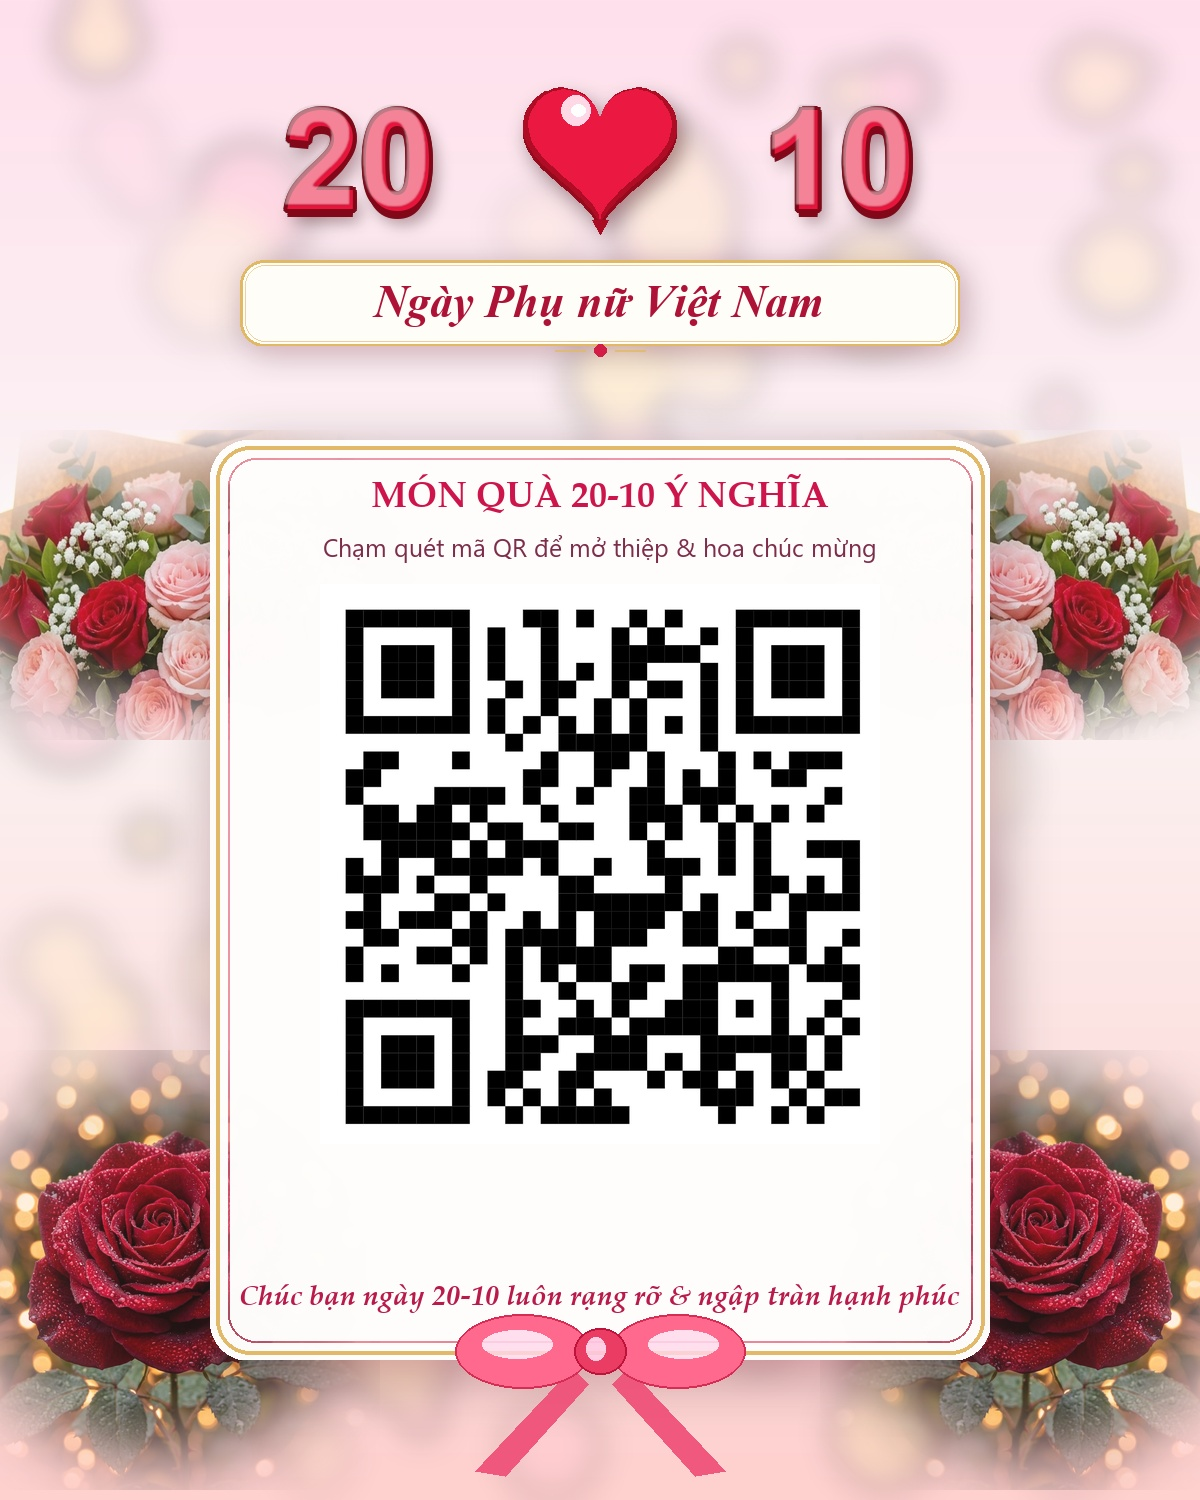
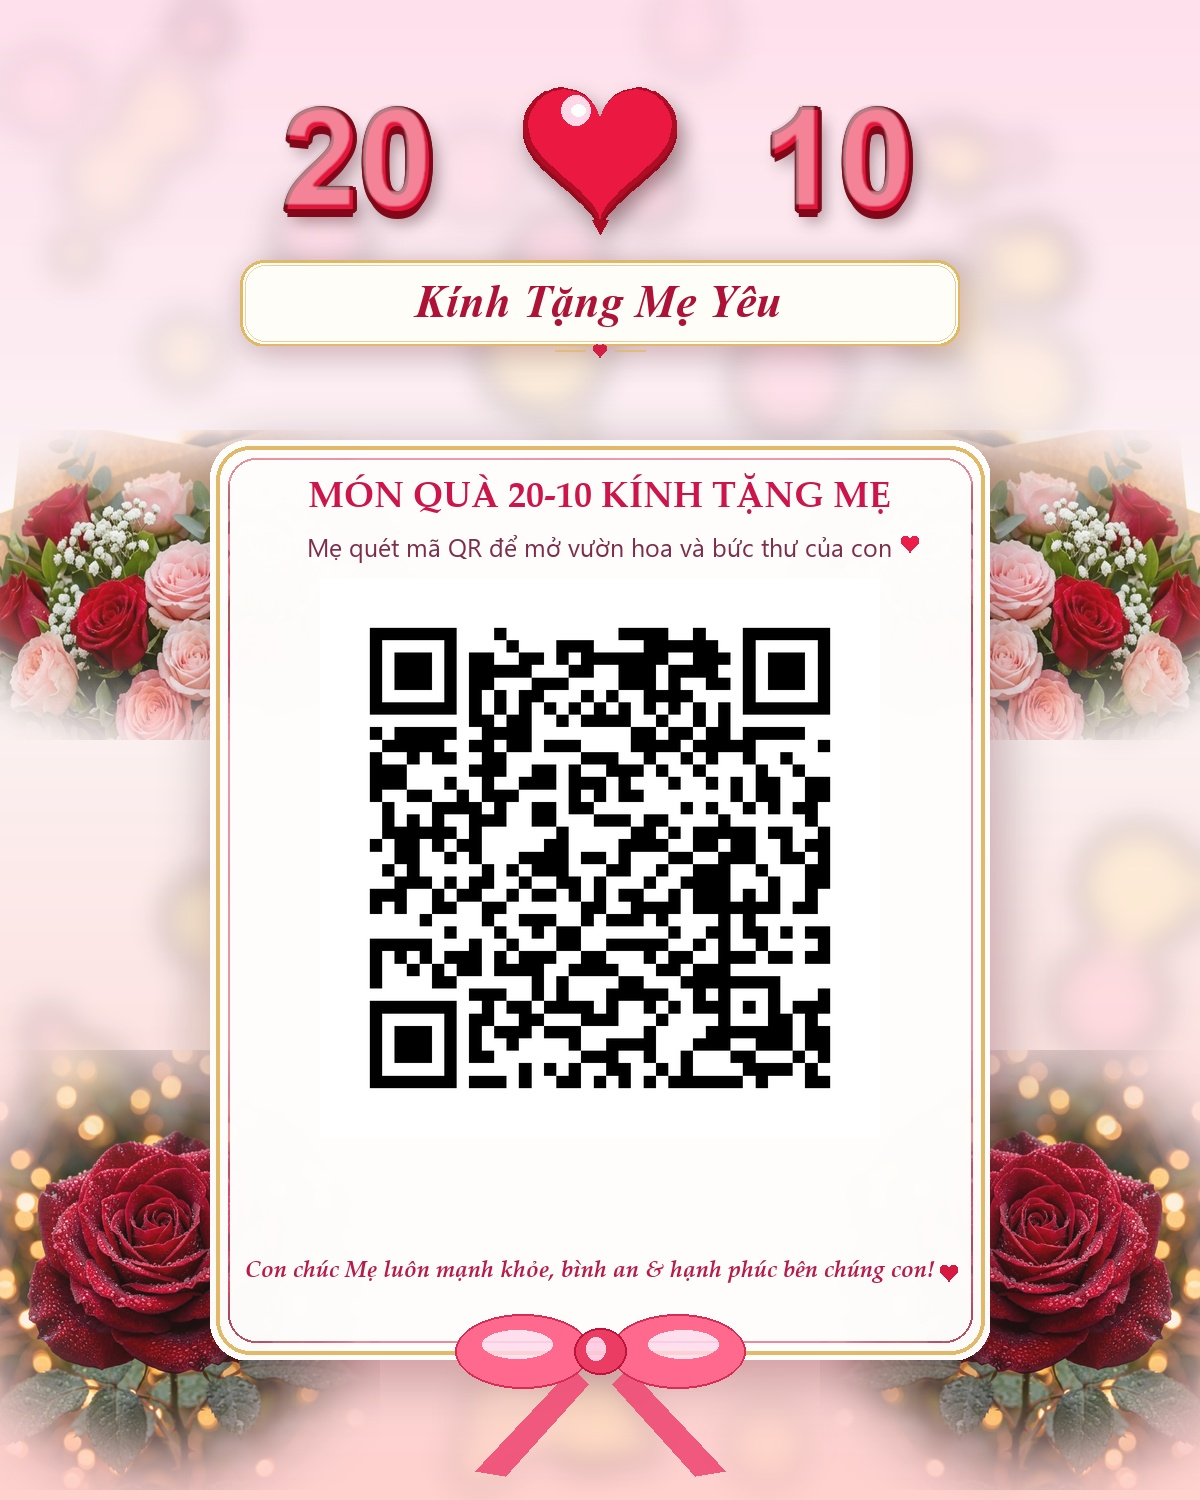
feat: tao khung ma QR 20-10 kinh tang Me tuyet dep va cap nhat qr.html

diff --git a/qr.html b/qr.html
@@ -177,31 +177,31 @@
   <div class="sparkle-bg"></div>
 
   <main class="container">
-    <h1 class="page-title">🌸 Món Quà 20-10 Ý Nghĩa 💖</h1>
-    <p class="page-sub">Khung ảnh thiệp mã QR được thiết kế riêng với chùm bóng 3D và hoa hồng rực rỡ</p>
+    <h1 class="page-title">🌸 Món Quà 20-10 Kính Tặng Mẹ Yêu 💖</h1>
+    <p class="page-sub">Khung ảnh thiệp mã QR bóng bay 3D & hoa hồng rực rỡ thiết kế riêng cho Mẹ</p>
 
-    <!-- Khung mã QR chất lượng cao -->
+    <!-- Khung mã QR chất lượng cao dành tặng Mẹ -->
     <div class="qr-frame-wrapper">
-      <img class="qr-img" src="assets/khung_qr_20_10.png" alt="Khung mã QR 20-10 Ý Nghĩa">
+      <img class="qr-img" src="assets/khung_qr_tang_me.png" alt="Khung mã QR 20-10 Kính Tặng Mẹ">
     </div>
 
     <!-- Nhóm nút tải và xem -->
     <div class="action-group">
-      <a class="btn btn-download" href="assets/khung_qr_20_10.png" download="Khung_QR_20_10.png">
-        <span>📥 Tải Ảnh Khung QR Về Điện Thoại (HD)</span>
+      <a class="btn btn-download" href="assets/khung_qr_tang_me.png" download="Khung_QR_20_10_Tang_Me.png">
+        <span>📥 Tải Ảnh Khung QR Tặng Mẹ (Bản Gốc HD)</span>
       </a>
 
-      <a class="btn btn-open" href="index.html">
-        <span>🎁 Trải Nghiệm Món Quà Trực Tiếp</span>
+      <a class="btn btn-open" href="index.html?to=Mẹ_Yêu&from=Con&theme=mom">
+        <span>🎁 Trải Nghiệm Món Quà Của Mẹ Trực Tiếp</span>
       </a>
     </div>
 
     <!-- Hướng dẫn sử dụng -->
     <div class="hint-box">
-      <strong>💡 Cách tặng quà bằng mã QR:</strong><br>
-      • Bạn hãy <strong>Tải ảnh về máy</strong> rồi gửi trực tiếp qua Zalo / Messenger.<br>
-      • Hoặc in bức ảnh này ra thiệp đặt cạnh bó hoa / món quà 20-10.<br>
-      • Người nhận chỉ cần <strong>bật Camera điện thoại hoặc Zalo</strong> quét mã là món quà bừng nở kỳ diệu! ✨
+      <strong>💡 Cách gửi tặng Mẹ thật ý nghĩa:</strong><br>
+      • Bạn hãy bấm <strong>Tải ảnh về máy</strong> rồi gửi bức ảnh thiệp này qua Zalo cho Mẹ.<br>
+      • Hoặc in bức ảnh này ra thiệp đặt cạnh bó hoa / hộp quà gửi tặng Mẹ.<br>
+      • Mẹ chỉ cần <strong>mở Zalo hoặc Camera điện thoại quét mã QR</strong> là vườn hoa hồng và bức thư yêu thương của con sẽ bừng nở! ✨
     </div>
   </main>
 

diff --git a/js/app.js b/js/app.js
@@ -39,8 +39,8 @@ const PHOTO_LIST = [
 // Trích xuất tham số URL
 function getQueryParams() {
   const params = new URLSearchParams(window.location.search);
-  const to = params.get('to') || 'Người Phụ Nữ Tuyệt Vời';
-  const from = params.get('from') || 'Friend';
+  const to = (params.get('to') || 'Người Phụ Nữ Tuyệt Vời').replace(/_/g, ' ');
+  const from = (params.get('from') || 'Con').replace(/_/g, ' ');
   let msg = params.get('msg');
   const theme = params.get('theme') || 'lover';
 

diff --git a/generate_mom_frame.py b/generate_mom_frame.py
@@ -1,0 +1,312 @@
+import os
+import math
+import cv2
+import numpy as np
+from PIL import Image, ImageDraw, ImageFont, ImageFilter, ImageOps
+
+def draw_small_heart(draw, cx, cy, size=10, fill=(215, 25, 65)):
+    pts = []
+    scale = size / 16.0
+    for t in np.linspace(0, 2 * math.pi, 60):
+        hx = 16 * (math.sin(t) ** 3)
+        hy = -(13 * math.cos(t) - 5 * math.cos(2*t) - 2 * math.cos(3*t) - math.cos(4*t))
+        pts.append((cx + hx * scale, cy + hy * scale))
+    draw.polygon(pts, fill=fill)
+
+def draw_3d_balloon_text(canvas, text, cx, cy, font, size=135):
+    temp = Image.new('RGBA', (canvas.width, canvas.height), (0, 0, 0, 0))
+    td = ImageDraw.Draw(temp)
+    
+    tb = td.textbbox((0, 0), text, font=font)
+    tw = tb[2] - tb[0]
+    th = tb[3] - tb[1]
+    tx = cx - tw // 2
+    ty = cy - th // 2
+    
+    # 1. Đổ bóng mềm
+    td.text((tx + 6, ty + 12), text, font=font, fill=(90, 8, 22, 110))
+    temp = temp.filter(ImageFilter.GaussianBlur(8))
+    td = ImageDraw.Draw(temp)
+    
+    # 2. Lớp viền 3D dày
+    offsets = [
+        (-4, 0), (4, 0), (0, -4), (0, 4),
+        (-3, -3), (3, 3), (-3, 3), (3, -3),
+        (-2, 4), (2, 4), (-4, 2), (4, 2),
+        (0, 6), (0, 8)
+    ]
+    for dx, dy in offsets:
+        td.text((tx + dx, ty + dy), text, font=font, fill=(130, 8, 25, 255))
+        
+    # 3. Thân bóng đỏ tươi rực rỡ
+    td.text((tx, ty), text, font=font, fill=(235, 20, 60, 255))
+    
+    # 4. Vệt sáng phản quang trên mép chữ
+    hi_layer = Image.new('RGBA', (canvas.width, canvas.height), (0, 0, 0, 0))
+    hid = ImageDraw.Draw(hi_layer)
+    hid.text((tx - 3, ty - 4), text, font=font, fill=(255, 255, 255, 120))
+    hi_layer = hi_layer.filter(ImageFilter.GaussianBlur(1))
+    temp = Image.alpha_composite(temp, hi_layer)
+    
+    return Image.alpha_composite(canvas, temp)
+
+def draw_3d_heart_balloon(canvas, cx, cy, scale=4.6):
+    heart_layer = Image.new('RGBA', (canvas.width, canvas.height), (0, 0, 0, 0))
+    hd = ImageDraw.Draw(heart_layer)
+    
+    pts = []
+    for t in np.linspace(0, 2 * math.pi, 120):
+        hx = 16 * (math.sin(t) ** 3)
+        hy = -(13 * math.cos(t) - 5 * math.cos(2*t) - 2 * math.cos(3*t) - math.cos(4*t))
+        pts.append((cx + hx * scale, cy + hy * scale))
+        
+    # Bóng đổ mềm
+    shadow_pts = [(x + 6, y + 12) for (x, y) in pts]
+    hd.polygon(shadow_pts, fill=(90, 8, 22, 120))
+    heart_layer = heart_layer.filter(ImageFilter.GaussianBlur(10))
+    hd = ImageDraw.Draw(heart_layer)
+    
+    # Lớp viền tối tạo độ dày 3D
+    thick_pts = [(x, y + 5) for (x, y) in pts]
+    hd.polygon(thick_pts, fill=(150, 10, 30, 255))
+    hd.polygon(pts, fill=(175, 12, 38, 255))
+    
+    # Thân trái tim đỏ căng tròn
+    inner_pts = []
+    scale_in = scale * 0.93
+    for t in np.linspace(0, 2 * math.pi, 120):
+        hx = 16 * (math.sin(t) ** 3)
+        hy = -(13 * math.cos(t) - 5 * math.cos(2*t) - 2 * math.cos(3*t) - math.cos(4*t))
+        inner_pts.append((cx + hx * scale_in, cy + hy * scale_in - 2))
+    hd.polygon(inner_pts, fill=(235, 25, 65, 255))
+    
+    # Vệt phản quang lấp lánh
+    hd.ellipse((cx - int(38 * (scale/4.6)), cy - int(48 * (scale/4.6)), cx - int(10 * (scale/4.6)), cy - int(20 * (scale/4.6))), fill=(255, 215, 230, 230))
+    hd.ellipse((cx - int(28 * (scale/4.6)), cy - int(40 * (scale/4.6)), cx - int(15 * (scale/4.6)), cy - int(28 * (scale/4.6))), fill=(255, 255, 255, 250))
+    
+    # Nút thắt bóng bay
+    knot_y = cy + int(72 * (scale/4.6))
+    hd.polygon([(cx - 8, knot_y), (cx + 8, knot_y), (cx, knot_y + 14)], fill=(170, 12, 35, 255))
+    
+    return Image.alpha_composite(canvas, heart_layer)
+
+def create_mom_masterpiece():
+    W, H = 1200, 1500
+    canvas = Image.new('RGBA', (W, H), (255, 255, 255, 255))
+    
+    # 1. NỀN PASTEL THƠ MỘNG
+    sky = Image.new('RGBA', (W, H))
+    for y in range(H):
+        ratio = y / H
+        if ratio < 0.4:
+            sub = ratio / 0.4
+            r = int(255 - sub * 4)
+            g = int(224 + sub * 22)
+            b = int(236 + sub * 10)
+        else:
+            sub = (ratio - 0.4) / 0.6
+            r = int(251 + sub * 4)
+            g = int(246 - sub * 38)
+            b = int(246 - sub * 40)
+        for x in range(W):
+            sky.putpixel((x, y), (r, g, b, 255))
+    canvas.paste(sky, (0, 0))
+
+    # 2. HẠT BOKEH VÀ ĐOM ĐÓM VÀNG GOLD
+    bokeh = Image.new('RGBA', (W, H), (0, 0, 0, 0))
+    bd = ImageDraw.Draw(bokeh)
+    np.random.seed(2010)
+    for _ in range(70):
+        bx = np.random.randint(30, W - 30)
+        by = np.random.randint(30, H - 30)
+        br = np.random.randint(15, 65)
+        alpha = np.random.randint(25, 85)
+        color = (255, 235, 160, alpha) if np.random.rand() > 0.4 else (255, 185, 205, alpha)
+        bd.ellipse((bx - br, by - br, bx + br, by + br), fill=color)
+    bokeh = bokeh.filter(ImageFilter.GaussianBlur(15))
+    canvas = Image.alpha_composite(canvas, bokeh)
+
+    # 3. HOA HỒNG TỰ NHIÊN XUNG QUANH
+    if os.path.exists('assets/bouquet.jpg'):
+        bq_full = Image.open('assets/bouquet.jpg')
+        flowers_top = bq_full.crop((140, 160, 860, 510)).convert('RGBA')
+        
+        fl_left = flowers_top.resize((520, 310), Image.Resampling.LANCZOS)
+        mask_fl_l = Image.new('L', (520, 310), 0)
+        mld = ImageDraw.Draw(mask_fl_l)
+        mld.ellipse((30, 30, 490, 280), fill=235)
+        mask_fl_l = mask_fl_l.filter(ImageFilter.GaussianBlur(28))
+        canvas.paste(fl_left, (-70, 430), mask_fl_l)
+        
+        fl_right = ImageOps.mirror(fl_left)
+        canvas.paste(fl_right, (W - 450, 430), mask_fl_l)
+
+    if os.path.exists('assets/rose_close.jpg'):
+        rc = Image.open('assets/rose_close.jpg').convert('RGBA')
+        rc_bl = rc.resize((440, 440), Image.Resampling.LANCZOS)
+        mask_bl = Image.new('L', (440, 440), 0)
+        bld = ImageDraw.Draw(mask_bl)
+        bld.ellipse((40, 40, 400, 400), fill=235)
+        mask_bl = mask_bl.filter(ImageFilter.GaussianBlur(36))
+        canvas.paste(rc_bl, (-60, H - 450), mask_bl)
+        
+        rc_br = ImageOps.mirror(rc_bl)
+        canvas.paste(rc_br, (W - 380, H - 450), mask_bl)
+
+    # 4. TẤM THIỆP GREETING CARD TRUNG TÂM
+    card_w = 780
+    card_h = 920
+    card_x = (W - card_w) // 2
+    card_y = 440
+
+    # Bóng đổ mềm mại dưới thiệp
+    shadow = Image.new('RGBA', (W, H), (0, 0, 0, 0))
+    sdraw = ImageDraw.Draw(shadow)
+    sdraw.rounded_rectangle((card_x + 8, card_y + 14, card_x + card_w + 8, card_y + card_h + 14), radius=38, fill=(150, 40, 70, 90))
+    shadow = shadow.filter(ImageFilter.GaussianBlur(26))
+    canvas = Image.alpha_composite(canvas, shadow)
+
+    # Thân thiệp màu trắng ngọc trai viền vàng kim loại
+    card = Image.new('RGBA', (card_w, card_h), (0, 0, 0, 0))
+    cd = ImageDraw.Draw(card)
+    cd.rounded_rectangle((0, 0, card_w, card_h), radius=38, fill=(255, 254, 252, 252))
+    cd.rounded_rectangle((6, 6, card_w - 6, card_h - 6), radius=34, outline=(225, 185, 105, 255), width=4)
+    cd.rounded_rectangle((18, 18, card_w - 18, card_h - 18), radius=28, outline=(255, 120, 150, 140), width=2)
+    canvas.paste(card, (card_x, card_y), card)
+
+    # 5. FONT CHỮ CHUẨN TIẾNG VIỆT
+    font_balloon = ImageFont.truetype("C:/Windows/Fonts/arialbd.ttf", 136)
+    font_banner = ImageFont.truetype("C:/Windows/Fonts/timesbi.ttf", 46)
+    font_card_title = ImageFont.truetype("C:/Windows/Fonts/palab.ttf", 36)
+    font_card_sub = ImageFont.truetype("C:/Windows/Fonts/segoeui.ttf", 25)
+    font_card_foot = ImageFont.truetype("C:/Windows/Fonts/palabi.ttf", 23)
+
+    draw = ImageDraw.Draw(canvas)
+
+    # Tiêu đề trên thiệp
+    card_title = "MÓN QUÀ 20-10 KÍNH TẶNG MẸ"
+    tb = draw.textbbox((0, 0), card_title, font=font_card_title)
+    draw.text((card_x + (card_w - (tb[2] - tb[0])) // 2, card_y + 40), card_title, fill=(205, 20, 75), font=font_card_title)
+
+    card_sub = "Mẹ quét mã QR để mở vườn hoa và bức thư của con"
+    sb = draw.textbbox((0, 0), card_sub, font=font_card_sub)
+    sub_x = card_x + (card_w - (sb[2] - sb[0])) // 2
+    sub_y = card_y + 90
+    draw.text((sub_x, sub_y), card_sub, fill=(125, 45, 75), font=font_card_sub)
+    draw_small_heart(draw, sub_x + (sb[2] - sb[0]) + 18, sub_y + 13, size=9, fill=(235, 30, 75))
+
+    # 6. MÃ QR GỐC TẶNG MẸ (GIỮ NGUYÊN 100% ĐEN TRẮNG NGUYÊN BẢN CỦA BẠN)
+    qr_path = r'C:\Users\duong\.gemini\antigravity-ide\brain\c8cce4da-7923-429c-976e-d281e068922e\.user_uploaded\media_1792436287872.png'
+    if os.path.exists(qr_path):
+        qr_raw = Image.open(qr_path).convert('RGB')
+        
+        qr_size = 560
+        qr_resized = qr_raw.resize((qr_size, qr_size), Image.Resampling.LANCZOS)
+        
+        qr_pos_x = card_x + (card_w - qr_size) // 2
+        qr_pos_y = card_y + 138
+        canvas.paste(qr_resized, (qr_pos_x, qr_pos_y))
+
+    # Dòng chữ chân thiệp chúc Mẹ
+    foot_text = "Con chúc Mẹ luôn mạnh khỏe, bình an & hạnh phúc bên chúng con!"
+    fb = draw.textbbox((0, 0), foot_text, font=font_card_foot)
+    foot_w = fb[2] - fb[0]
+    foot_x = card_x + (card_w - foot_w) // 2 - 10
+    foot_y = card_y + card_h - 100
+    draw.text((foot_x, foot_y), foot_text, fill=(185, 25, 75), font=font_card_foot)
+    draw_small_heart(draw, foot_x + foot_w + 14, foot_y + 12, size=9, fill=(215, 25, 65))
+
+    # 7. PHẦN ĐẦU TRANG: CHÙM BÓNG BAY 3D ĐỎ "20-10" & TIM & BANNER RUY BĂNG
+    top_y = 75
+    
+    # Dải ruy băng ngọc trai "Kính Tặng Mẹ Yêu"
+    banner_w = 720
+    banner_h = 86
+    banner_x = (W - banner_w) // 2
+    banner_y = top_y + 185
+    
+    # Bóng đổ của Banner
+    b_shadow = Image.new('RGBA', (W, H), (0, 0, 0, 0))
+    bsd = ImageDraw.Draw(b_shadow)
+    bsd.rounded_rectangle((banner_x + 4, banner_y + 6, banner_x + banner_w + 4, banner_y + banner_h + 6), radius=24, fill=(160, 35, 65, 80))
+    b_shadow = b_shadow.filter(ImageFilter.GaussianBlur(15))
+    canvas = Image.alpha_composite(canvas, b_shadow)
+
+    # Thân Banner
+    banner = Image.new('RGBA', (banner_w, banner_h), (0, 0, 0, 0))
+    bnd = ImageDraw.Draw(banner)
+    bnd.rounded_rectangle((0, 0, banner_w, banner_h), radius=24, fill=(255, 253, 248, 255), outline=(225, 185, 100, 255), width=3)
+    bnd.rounded_rectangle((5, 5, banner_w - 5, banner_h - 5), radius=20, outline=(245, 215, 140, 160), width=1)
+    canvas.paste(banner, (banner_x, banner_y), banner)
+
+    # Chữ Banner: "Kính Tặng Mẹ Yêu"
+    draw = ImageDraw.Draw(canvas)
+    banner_text = "Kính Tặng Mẹ Yêu"
+    bnb = draw.textbbox((0, 0), banner_text, font=font_banner)
+    bnw = bnb[2] - bnb[0]
+    draw.text((banner_x + (banner_w - bnw) // 2, banner_y + 16), banner_text, fill=(175, 18, 55), font=font_banner)
+
+    # Họa tiết trái tim nhỏ và nét cuộn duyên dáng dưới banner
+    scroll_layer = Image.new('RGBA', (W, H), (0, 0, 0, 0))
+    scd = ImageDraw.Draw(scroll_layer)
+    sc_cx = W // 2
+    sc_cy = banner_y + banner_h + 2
+    draw_small_heart(scd, sc_cx, sc_cy + 2, size=7, fill=(210, 30, 70))
+    scd.line([(sc_cx - 45, sc_cy + 2), (sc_cx - 15, sc_cy + 2)], fill=(225, 185, 100, 200), width=2)
+    scd.line([(sc_cx + 15, sc_cy + 2), (sc_cx + 45, sc_cy + 2)], fill=(225, 185, 100, 200), width=2)
+    canvas = Image.alpha_composite(canvas, scroll_layer)
+
+    # 3D BÓNG BAY "20", TRÁI TIM, "10" ĐẬM ĐÀ, TO RÕ & BÓNG BẨY
+    canvas = draw_3d_balloon_text(canvas, "20", W // 2 - 240, top_y + 60, font_balloon)
+    canvas = draw_3d_heart_balloon(canvas, W // 2, top_y + 70, scale=4.8)
+    canvas = draw_3d_balloon_text(canvas, "10", W // 2 + 240, top_y + 60, font_balloon)
+
+    # 8. CHIẾC NƠ LỤA HỒNG SATIN Ở ĐÁY THIỆP (LUXURY SATIN BOW)
+    bow_y = card_y + card_h - 14
+    bow_cx = W // 2
+    bow_layer = Image.new('RGBA', (W, H), (0, 0, 0, 0))
+    bwd = ImageDraw.Draw(bow_layer)
+    
+    t_left = [(bow_cx - 28, bow_y + 22), (bow_cx - 125, bow_y + 125), (bow_cx - 95, bow_y + 130), (bow_cx - 12, bow_y + 38)]
+    t_right = [(bow_cx + 28, bow_y + 22), (bow_cx + 125, bow_y + 125), (bow_cx + 95, bow_y + 130), (bow_cx + 12, bow_y + 38)]
+    bwd.polygon(t_left, fill=(240, 80, 120, 240))
+    bwd.polygon(t_right, fill=(240, 80, 120, 240))
+    
+    bwd.ellipse((bow_cx - 145, bow_y - 32, bow_cx - 10, bow_y + 42), fill=(255, 105, 142, 255), outline=(215, 45, 85, 255), width=2)
+    bwd.ellipse((bow_cx + 10, bow_y - 32, bow_cx + 145, bow_y + 42), fill=(255, 105, 142, 255), outline=(215, 45, 85, 255), width=2)
+    
+    bwd.ellipse((bow_cx - 118, bow_y - 16, bow_cx - 48, bow_y + 12), fill=(255, 215, 235, 210))
+    bwd.ellipse((bow_cx + 48, bow_y - 16, bow_cx + 118, bow_y + 12), fill=(255, 215, 235, 210))
+    
+    bwd.ellipse((bow_cx - 26, bow_y - 18, bow_cx + 26, bow_y + 28), fill=(235, 60, 100, 255), outline=(190, 20, 60, 255), width=2)
+    bwd.ellipse((bow_cx - 14, bow_y - 9, bow_cx + 5, bow_y + 14), fill=(255, 200, 225, 230))
+
+    canvas = Image.alpha_composite(canvas, bow_layer)
+
+    # 9. LƯU CẢ 2 ĐỊNH DẠNG: KHUNG QR TẶNG MẸ & CẬP NHẬT KHUNG CHÍNH
+    files_to_save = [
+        'khung_qr_tang_me.png',
+        'khung_qr_tang_me.jpg',
+        'assets/khung_qr_tang_me.png',
+        'assets/khung_qr_tang_me.jpg',
+        'khung_qr_20_10.png',
+        'khung_qr_20_10.jpg',
+        'assets/khung_qr_20_10.png',
+        'assets/khung_qr_20_10.jpg'
+    ]
+    
+    for f in files_to_save:
+        if f.endswith('.png'):
+            canvas.save(f, 'PNG', quality=100)
+        else:
+            canvas.convert('RGB').save(f, 'JPEG', quality=95)
+    print("SUCCESS: Generated masterpiece for Mom in all target paths!")
+
+    # 10. KIỂM TRA QUÉT MÃ QR BẰNG OPENCV
+    det = cv2.QRCodeDetector()
+    cv_img = cv2.imread('khung_qr_tang_me.png')
+    decoded, _, _ = det.detectAndDecode(cv_img)
+    print("QR SCAN SUCCESS:", decoded)
+
+if __name__ == '__main__':
+    create_mom_masterpiece()
